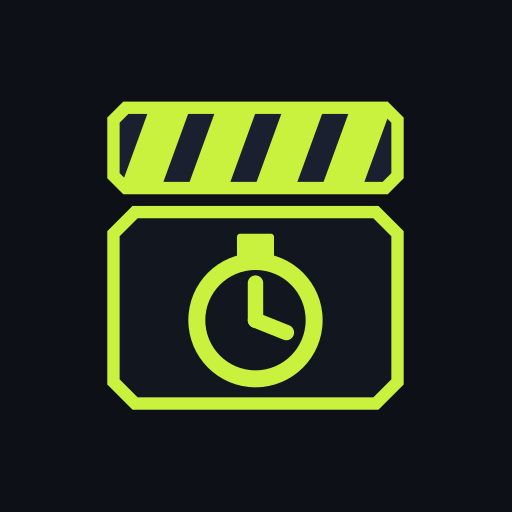
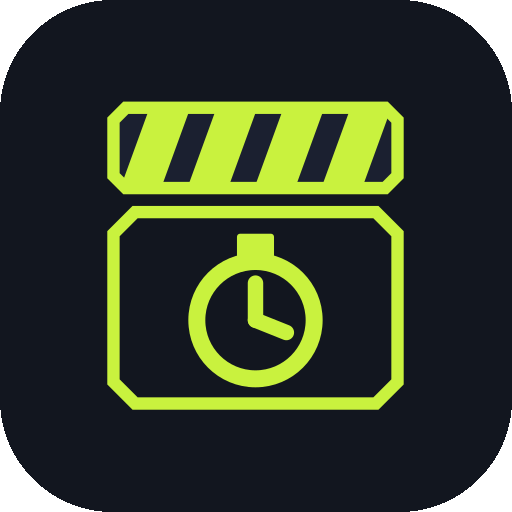
design: aplicar sistema de marca ClapSuite
- Paleta exacta de tokens (Canvas/Panel, Lima #C9F23E como acento de ClapTime;
  teal/coral/amber funcionales; purple→reserva violeta) en :root
- Tipografía Syne 800 / DM Sans / DM Mono; labels eyebrow en DM Mono
- Logo oficial del handoff + iconos tile #12161F radio 22%
- Wordmark Clap+Time (sufijo en lima) en login y topbars; firma «by ClapSuite»
- Halo lima del login; plantillas de email recoloreadas a marca
- Logos de la suite (pay/crew/cal/suite) guardados en src/assets/brand para el futuro

diff --git a/src/index.css b/src/index.css
@@ -2,20 +2,27 @@
 @keyframes toastIn{from{opacity:0;transform:translateY(10px)}to{opacity:1;transform:translateY(0)}}
 .toast-item{animation:toastIn .18s ease;}
 :root{
-  --bg:#0e1018;--bg2:#181c26;--bg3:#222636;--bg4:#2c3145;
-  --border:rgba(255,255,255,.10);--border2:rgba(255,255,255,.20);--border3:rgba(255,255,255,.30);
-  --text:#f2f3f8;--text2:#b8bdd4;--text3:#6b7191;
-  --accent:#e8ff47;--teal:#2dd4bf;--coral:#ff6b47;--purple:#a78bff;--green:#4ade80;--amber:#fbbf24;
-  --fh:'Syne',sans-serif;--fb:'DM Sans',sans-serif;--r:10px;--rl:16px;
+  /* ── ClapSuite · sistema (modo oscuro) ── */
+  --bg:#0E1018;--bg2:#161A24;--bg3:#1E2330;--bg4:#262C3C;--bg5:#333A4F;
+  --board:#12161F;--board-bar:#1B2030;
+  --border:rgba(255,255,255,.08);--border2:rgba(255,255,255,.15);--border3:rgba(255,255,255,.24);
+  --text:#F2F3F8;--text2:#B3B9D0;--text3:#737A9C;--chalk:#EEF0F4;
+  /* Acento de producto: ClapTime = Lima. teal/coral/amber funcionales; purple = reserva violeta */
+  --accent:#C9F23E;--teal:#33D6C0;--coral:#FF6F4D;--purple:#A485F2;--green:#C9F23E;--amber:#E6A63A;
+  --fh:'Syne',sans-serif;--fb:'DM Sans',sans-serif;--fm:'DM Mono',monospace;
+  --r:10px;--rl:16px;--rp:999px;
 }
 body{background:var(--bg);color:var(--text);font-family:var(--fb);font-size:14px;min-height:100vh;line-height:1.55;}
 #root{min-height:100vh;display:flex;flex-direction:column;}
 
 /* LOGIN */
 .login-screen{min-height:100vh;display:flex;align-items:center;justify-content:center;flex-direction:column;padding:2rem;position:relative;overflow:hidden;}
-.login-screen::before{content:'';position:absolute;width:600px;height:600px;border-radius:50%;background:radial-gradient(circle,rgba(232,255,71,.07) 0%,transparent 70%);top:-150px;right:-100px;pointer-events:none;}
-.login-logo{display:flex;align-items:center;gap:12px;margin-bottom:2.5rem;font-family:var(--fh);font-weight:700;font-size:20px;letter-spacing:.05em;}
+.login-screen::before{content:'';position:absolute;width:600px;height:600px;border-radius:50%;background:radial-gradient(circle,rgba(201,242,62,.06) 0%,transparent 70%);top:-150px;right:-100px;pointer-events:none;}
+.login-logo{display:flex;align-items:center;gap:12px;margin-bottom:.4rem;}
 .login-logo img{width:42px;height:42px;object-fit:contain;}
+.wordmark{font-family:var(--fh);font-weight:800;font-size:22px;letter-spacing:-.01em;color:var(--chalk);}
+.wordmark .wm-suffix{color:var(--accent);}
+.login-by{font-family:var(--fb);font-weight:500;font-size:12px;color:var(--text3);margin-bottom:2.2rem;}
 .login-box{background:var(--bg2);border:1px solid var(--border2);border-radius:var(--rl);padding:2.5rem;width:100%;max-width:390px;}
 .login-box h2{font-family:var(--fh);font-size:22px;font-weight:600;margin-bottom:.4rem;}
 .login-box>p{color:var(--text2);font-size:13px;margin-bottom:2rem;}
@@ -26,7 +33,7 @@ body{background:var(--bg);color:var(--text);font-family:var(--fb);font-size:14px
 
 /* FORM */
 .fg{margin-bottom:1.1rem;min-width:0;position:relative;overflow:hidden;}
-.fg label{display:block;font-size:11px;color:var(--text2);margin-bottom:.4rem;text-transform:uppercase;letter-spacing:.07em;font-weight:600;}
+.fg label{display:block;font-family:var(--fm);font-size:10px;color:var(--text2);margin-bottom:.4rem;text-transform:uppercase;letter-spacing:.12em;font-weight:500;}
 .fg input,.fg select,.fg textarea{width:100%;min-width:0;max-width:100%;background:var(--bg3);border:1px solid var(--border2);border-radius:var(--r);padding:9px 13px;font-family:var(--fb);font-size:14px;color:var(--text);outline:none;transition:border-color .2s;}
 .fg input:focus,.fg select:focus,.fg textarea:focus{border-color:var(--accent);}
 .fg select option{background:var(--bg3);}
@@ -57,15 +64,17 @@ body{background:var(--bg);color:var(--text);font-family:var(--fb);font-size:14px
 /* LAYOUT */
 .app-shell{display:flex;flex-direction:column;min-height:100vh;}
 .topbar{height:60px;background:var(--bg2);border-bottom:1px solid var(--border2);display:flex;align-items:center;padding:0 1.5rem;justify-content:space-between;flex-shrink:0;}
-.topbar-logo{font-family:var(--fh);font-weight:700;font-size:16px;display:flex;align-items:center;gap:10px;}
+.topbar-logo{font-family:var(--fh);font-weight:800;font-size:16px;letter-spacing:-.01em;display:flex;align-items:center;gap:10px;color:var(--chalk);}
 .topbar-logo img{width:26px;height:26px;object-fit:contain;}
+.topbar-title .wm-suffix{color:var(--accent);}
+.topbar-title .topbar-sub{font-family:var(--fb);font-weight:500;font-size:13px;color:var(--text3);letter-spacing:0;}
 .topbar-right{display:flex;align-items:center;gap:12px;}
 .topbar-user{display:flex;align-items:center;gap:8px;font-size:13px;color:var(--text2);}
 .avatar{width:32px;height:32px;border-radius:50%;display:flex;align-items:center;justify-content:center;font-family:var(--fh);font-weight:700;font-size:12px;flex-shrink:0;}
 .app-layout{display:flex;flex:1;min-height:calc(100vh - 60px);}
 .sidebar{width:225px;background:var(--bg2);border-right:1px solid var(--border2);padding:1.5rem 0;flex-shrink:0;}
 .sb-section{padding:0 1rem;margin-bottom:2rem;}
-.sb-label{font-size:10px;text-transform:uppercase;letter-spacing:.1em;color:var(--text3);margin-bottom:.75rem;padding:0 .5rem;font-weight:700;}
+.sb-label{font-family:var(--fm);font-size:10px;text-transform:uppercase;letter-spacing:.14em;color:var(--text3);margin-bottom:.75rem;padding:0 .5rem;font-weight:500;}
 .sb-item{display:flex;align-items:center;gap:9px;padding:9px 11px;border-radius:8px;color:var(--text2);font-size:13px;cursor:pointer;transition:all .15s;margin-bottom:2px;font-weight:500;}
 .sb-item i{font-size:16px;}
 .sb-item:hover{background:var(--bg3);color:var(--text);}

diff --git a/email_templates/email_change.html b/email_templates/email_change.html
@@ -10,7 +10,7 @@
       <table role="presentation" width="480" cellpadding="0" cellspacing="0" style="width:480px;max-width:100%;background:#ffffff;border-radius:14px;overflow:hidden;box-shadow:0 1px 3px rgba(16,16,24,0.08);">
         <tr>
           <td style="background:#0e1018;padding:22px 32px;">
-            <span style="color:#ffffff;font-size:19px;font-weight:700;letter-spacing:.3px;">Clap<span style="color:#a78bff;">Time</span></span>
+            <span style="color:#ffffff;font-size:19px;font-weight:700;letter-spacing:.3px;">Clap<span style="color:#C9F23E;">Time</span></span>
           </td>
         </tr>
         <tr>
@@ -24,9 +24,9 @@
             </p>
             <table role="presentation" cellpadding="0" cellspacing="0" style="margin:24px 0;">
               <tr>
-                <td align="center" style="border-radius:10px;background:#6d4aff;">
+                <td align="center" style="border-radius:10px;background:#C9F23E;">
                   <a href="{{ .ConfirmationURL }}" target="_blank"
-                     style="display:inline-block;padding:13px 28px;font-size:15px;font-weight:600;color:#ffffff;text-decoration:none;border-radius:10px;">
+                     style="display:inline-block;padding:13px 28px;font-size:15px;font-weight:700;color:#0E1018;text-decoration:none;border-radius:10px;">
                     Confirmar nuevo email
                   </a>
                 </td>
@@ -36,7 +36,7 @@
               Si no funciona el botón, copia y pega esta dirección en tu navegador:
             </p>
             <p style="margin:0;font-size:12px;line-height:1.5;word-break:break-all;">
-              <a href="{{ .ConfirmationURL }}" style="color:#6d4aff;">{{ .ConfirmationURL }}</a>
+              <a href="{{ .ConfirmationURL }}" style="color:#1f5e1a;">{{ .ConfirmationURL }}</a>
             </p>
           </td>
         </tr>

diff --git a/email_templates/recovery.html b/email_templates/recovery.html
@@ -10,7 +10,7 @@
       <table role="presentation" width="480" cellpadding="0" cellspacing="0" style="width:480px;max-width:100%;background:#ffffff;border-radius:14px;overflow:hidden;box-shadow:0 1px 3px rgba(16,16,24,0.08);">
         <tr>
           <td style="background:#0e1018;padding:22px 32px;">
-            <span style="color:#ffffff;font-size:19px;font-weight:700;letter-spacing:.3px;">Clap<span style="color:#a78bff;">Time</span></span>
+            <span style="color:#ffffff;font-size:19px;font-weight:700;letter-spacing:.3px;">Clap<span style="color:#C9F23E;">Time</span></span>
           </td>
         </tr>
         <tr>
@@ -24,9 +24,9 @@
             </p>
             <table role="presentation" cellpadding="0" cellspacing="0" style="margin:24px 0;">
               <tr>
-                <td align="center" style="border-radius:10px;background:#6d4aff;">
+                <td align="center" style="border-radius:10px;background:#C9F23E;">
                   <a href="{{ .ConfirmationURL }}" target="_blank"
-                     style="display:inline-block;padding:13px 28px;font-size:15px;font-weight:600;color:#ffffff;text-decoration:none;border-radius:10px;">
+                     style="display:inline-block;padding:13px 28px;font-size:15px;font-weight:700;color:#0E1018;text-decoration:none;border-radius:10px;">
                     Cambiar contraseña
                   </a>
                 </td>
@@ -36,7 +36,7 @@
               Si no funciona el botón, copia y pega esta dirección en tu navegador:
             </p>
             <p style="margin:0;font-size:12px;line-height:1.5;word-break:break-all;">
-              <a href="{{ .ConfirmationURL }}" style="color:#6d4aff;">{{ .ConfirmationURL }}</a>
+              <a href="{{ .ConfirmationURL }}" style="color:#1f5e1a;">{{ .ConfirmationURL }}</a>
             </p>
           </td>
         </tr>

diff --git a/email_templates/magic_link.html b/email_templates/magic_link.html
@@ -10,7 +10,7 @@
       <table role="presentation" width="480" cellpadding="0" cellspacing="0" style="width:480px;max-width:100%;background:#ffffff;border-radius:14px;overflow:hidden;box-shadow:0 1px 3px rgba(16,16,24,0.08);">
         <tr>
           <td style="background:#0e1018;padding:22px 32px;">
-            <span style="color:#ffffff;font-size:19px;font-weight:700;letter-spacing:.3px;">Clap<span style="color:#a78bff;">Time</span></span>
+            <span style="color:#ffffff;font-size:19px;font-weight:700;letter-spacing:.3px;">Clap<span style="color:#C9F23E;">Time</span></span>
           </td>
         </tr>
         <tr>
@@ -23,9 +23,9 @@
             </p>
             <table role="presentation" cellpadding="0" cellspacing="0" style="margin:24px 0;">
               <tr>
-                <td align="center" style="border-radius:10px;background:#6d4aff;">
+                <td align="center" style="border-radius:10px;background:#C9F23E;">
                   <a href="{{ .ConfirmationURL }}" target="_blank"
-                     style="display:inline-block;padding:13px 28px;font-size:15px;font-weight:600;color:#ffffff;text-decoration:none;border-radius:10px;">
+                     style="display:inline-block;padding:13px 28px;font-size:15px;font-weight:700;color:#0E1018;text-decoration:none;border-radius:10px;">
                     Entrar en ClapTime
                   </a>
                 </td>
@@ -35,7 +35,7 @@
               Si no funciona el botón, copia y pega esta dirección en tu navegador:
             </p>
             <p style="margin:0;font-size:12px;line-height:1.5;word-break:break-all;">
-              <a href="{{ .ConfirmationURL }}" style="color:#6d4aff;">{{ .ConfirmationURL }}</a>
+              <a href="{{ .ConfirmationURL }}" style="color:#1f5e1a;">{{ .ConfirmationURL }}</a>
             </p>
           </td>
         </tr>

diff --git a/email_templates/invite.html b/email_templates/invite.html
@@ -11,7 +11,7 @@
         <!-- Cabecera -->
         <tr>
           <td style="background:#0e1018;padding:22px 32px;">
-            <span style="color:#ffffff;font-size:19px;font-weight:700;letter-spacing:.3px;">Clap<span style="color:#a78bff;">Time</span></span>
+            <span style="color:#ffffff;font-size:19px;font-weight:700;letter-spacing:.3px;">Clap<span style="color:#C9F23E;">Time</span></span>
           </td>
         </tr>
         <!-- Cuerpo -->
@@ -26,9 +26,9 @@
             </p>
             <table role="presentation" cellpadding="0" cellspacing="0" style="margin:24px 0;">
               <tr>
-                <td align="center" style="border-radius:10px;background:#6d4aff;">
+                <td align="center" style="border-radius:10px;background:#C9F23E;">
                   <a href="{{ .ConfirmationURL }}" target="_blank"
-                     style="display:inline-block;padding:13px 28px;font-size:15px;font-weight:600;color:#ffffff;text-decoration:none;border-radius:10px;">
+                     style="display:inline-block;padding:13px 28px;font-size:15px;font-weight:700;color:#0E1018;text-decoration:none;border-radius:10px;">
                     Crear mi contraseña
                   </a>
                 </td>
@@ -38,7 +38,7 @@
               Este enlace caduca por seguridad. Si no funciona, copia y pega esta dirección en tu navegador:
             </p>
             <p style="margin:0;font-size:12px;line-height:1.5;word-break:break-all;">
-              <a href="{{ .ConfirmationURL }}" style="color:#6d4aff;">{{ .ConfirmationURL }}</a>
+              <a href="{{ .ConfirmationURL }}" style="color:#1f5e1a;">{{ .ConfirmationURL }}</a>
             </p>
           </td>
         </tr>

diff --git a/index.html b/index.html
@@ -13,7 +13,8 @@
     <title>ClapTime · Gestión Horaria</title>
     <link rel="stylesheet" href="https://cdn.jsdelivr.net/npm/@tabler/icons-webfont@3.31.0/dist/tabler-icons.min.css"/>
     <link rel="preconnect" href="https://fonts.googleapis.com">
-    <link href="https://fonts.googleapis.com/css2?family=Syne:wght@400;600;700&family=DM+Sans:wght@400;500&display=swap" rel="stylesheet">
+    <link rel="preconnect" href="https://fonts.gstatic.com" crossorigin>
+    <link href="https://fonts.googleapis.com/css2?family=Syne:wght@600;700;800&family=DM+Sans:wght@400;500;700&family=DM+Mono:wght@400;500&display=swap" rel="stylesheet">
   </head>
   <body>
     <div id="root"></div>

diff --git a/src/pages/admin/AdminLayout.jsx b/src/pages/admin/AdminLayout.jsx
@@ -38,7 +38,7 @@ export default function AdminLayout() {
       <div className="topbar">
         <div className="topbar-logo">
           <img src={logo} alt="ClapTime" />
-          <span className="topbar-title">ClapTime · Gestión Horaria</span>
+          <span className="topbar-title">Clap<span className="wm-suffix">Time</span> <span className="topbar-sub">· Gestión Horaria</span></span>
         </div>
         <div className="topbar-right">
           <div className="topbar-user">

diff --git a/src/pages/superadmin/SuperAdminLayout.jsx b/src/pages/superadmin/SuperAdminLayout.jsx
@@ -20,7 +20,7 @@ export default function SuperAdminLayout() {
       <div className="topbar">
         <div className="topbar-logo">
           <img src={logo} alt="ClapTime" />
-          <span className="topbar-title">ClapTime · Super Admin</span>
+          <span className="topbar-title">Clap<span className="wm-suffix">Time</span> <span className="topbar-sub">· Super Admin</span></span>
         </div>
         <div className="topbar-right">
           <div className="topbar-user">

diff --git a/src/pages/employee/EmployeeLayout.jsx b/src/pages/employee/EmployeeLayout.jsx
@@ -38,7 +38,7 @@ export default function EmployeeLayout() {
       <div className="topbar">
         <div className="topbar-logo">
           <img src={logo} alt="ClapTime" />
-          <span className="topbar-title">ClapTime · Mi Espacio</span>
+          <span className="topbar-title">Clap<span className="wm-suffix">Time</span> <span className="topbar-sub">· Mi Espacio</span></span>
         </div>
         <div className="topbar-right">
           <div className="topbar-user">

diff --git a/src/pages/Login.jsx b/src/pages/Login.jsx
@@ -41,8 +41,9 @@ export default function Login() {
     <div className="login-screen">
       <div className="login-logo">
         <img src={logo} alt="ClapTime" />
-        ClapTime
+        <span className="wordmark">Clap<span className="wm-suffix">Time</span></span>
       </div>
+      <div className="login-by">by ClapSuite</div>
       <div className="login-box">
         {resetSent ? (
           <>
